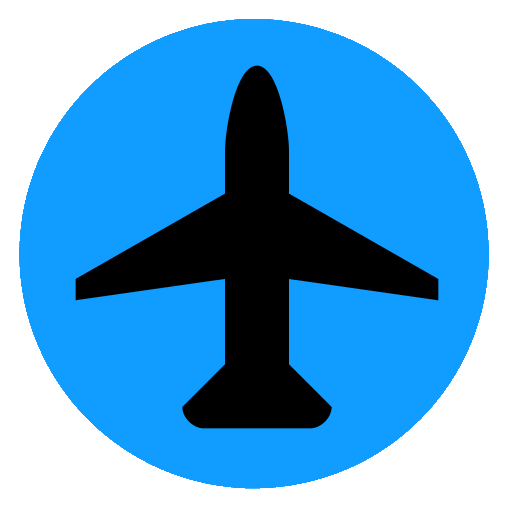
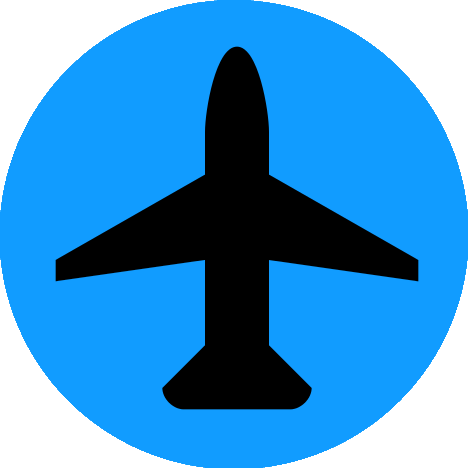
More Airports and routes added

diff --git a/main.css b/main.css
@@ -21,22 +21,31 @@ body {
 	top: 10px;
 	left: 10px;
 }
+#current {
+	position: fixed;
+	top: 30px;
+	font-family: roboto-condensed;
+	left: 140px;
+	color: #ffffff;
+	text-shadow: 0px 0px 7px #000000;
+}
 #searchbox img {
-	width: 140px;
+	width: 130px;
 	position: relative;
 	z-index: 10;
 	border-radius: 75px;
-	box-shadow: 0 0 5px 5px #888;
+	margin-top: 5px;
+	box-shadow: 0 0 2px 2px #888;
 }
 #searchbox input {
 	width: 300px;
 	height: 40px;
 	position: fixed;
-	top: 55px;
-	left: 140px;
+	top: 60px;
+	left: 130px;
 	border: 0;
 	font-family: roboto-condensed;
-	padding-left: 15px;
+	padding-left: 25px;
 	font-size: 18px;
 	box-shadow: 0 0 5px 5px #888;
 }

diff --git a/index.php b/index.php
@@ -6,10 +6,22 @@ if (isset($_GET['airport'])) {
 if ($airport == "LHR") {
   $baselat = 51.4775;
   $baselng = 0.4614;
+  $airportname = "London Heathrow";
 }
 else if ($airport == "JFK") {
   $baselat = 40.6397;
   $baselng = -73.7789;
+  $airportname = "JFK New York";
+}
+else if ($airport == "AUH") {
+  $baselat = 24.4281;
+  $baselng = 54.6470;
+  $airportname = "Abu Dhabi International";
+}
+else if ($airport == "ALA") {
+  $baselat = 43.3519;
+  $baselng = 77.0406;
+  $airportname = "Almaty, Kazakhstan";
 }
 else {
   $baselat = 0;
@@ -76,12 +88,13 @@ function marker(lat, lng) {
 </script>
 </head>
 <body>
-<div id = "map-canvas"></div><!--
+<div id = "map-canvas"></div>
 <div id = "searchbox">
+<div id = "current">Currently showing air routes from <?php print $airportname ?></div>
 <img src = "airport-big.png">
-<form>
-  <input type = "text" placeholder = "Enter Airport Name or Code">
+<form method = "get" action = "search.php">
+  <input type = "text" placeholder = "Enter Airport Name or Code" name = "terms">
 </form>
-</div>-->
+</div>
 </body>
 </html>

diff --git a/search.php b/search.php
@@ -1,0 +1,19 @@
+<?php
+$terms = $_GET['terms'];
+if ($terms == "LHR" or strpos($terms,'LHR') !== false or strpos($terms,'Heathrow') !== false or strpos($terms,'London') !== false or strpos($terms,'UK') !== false) {
+	header("Location: index.php?airport=LHR");
+}
+else if ($terms == "JFK" or strpos($terms,'JFK') !== false or strpos($terms,'Kennedy') !== false or strpos($terms,'New York') !== false or strpos($terms,'USA') !== false) {
+	header("Location: index.php?airport=JFK");
+}
+else if ($terms == "AUH" or strpos($terms,'AUH') !== false or strpos($terms,'Abu Dhabi') !== false or strpos($terms,'United Arab Emirates') !== false) {
+	header("Location: index.php?airport=AUH");
+}
+else if ($terms == "ALA" or strpos($terms,'ALA') !== false or strpos($terms,'Almaty') !== false or strpos($terms,'Kazakhstan') !== false) {
+	header("Location: index.php?airport=ALA");
+}
+else if ($terms == "") {
+	header("Location: index.php");
+}
+else print "The airport you entered could not be found.";
+?>

diff --git a/scraper/scraper.rb b/scraper/scraper.rb
@@ -3,7 +3,7 @@ require 'nokogiri'
 require 'json'
 require 'rest-client'
 
-document = open("http://www.ourairports.com/airports/KJFK/routes/")
+document = open("http://www.ourairports.com/airports/UAAA/routes/")
 doc =  Nokogiri::HTML(document, nil, 'UTF-8')
 
 doc.css('dt').each do |link|
